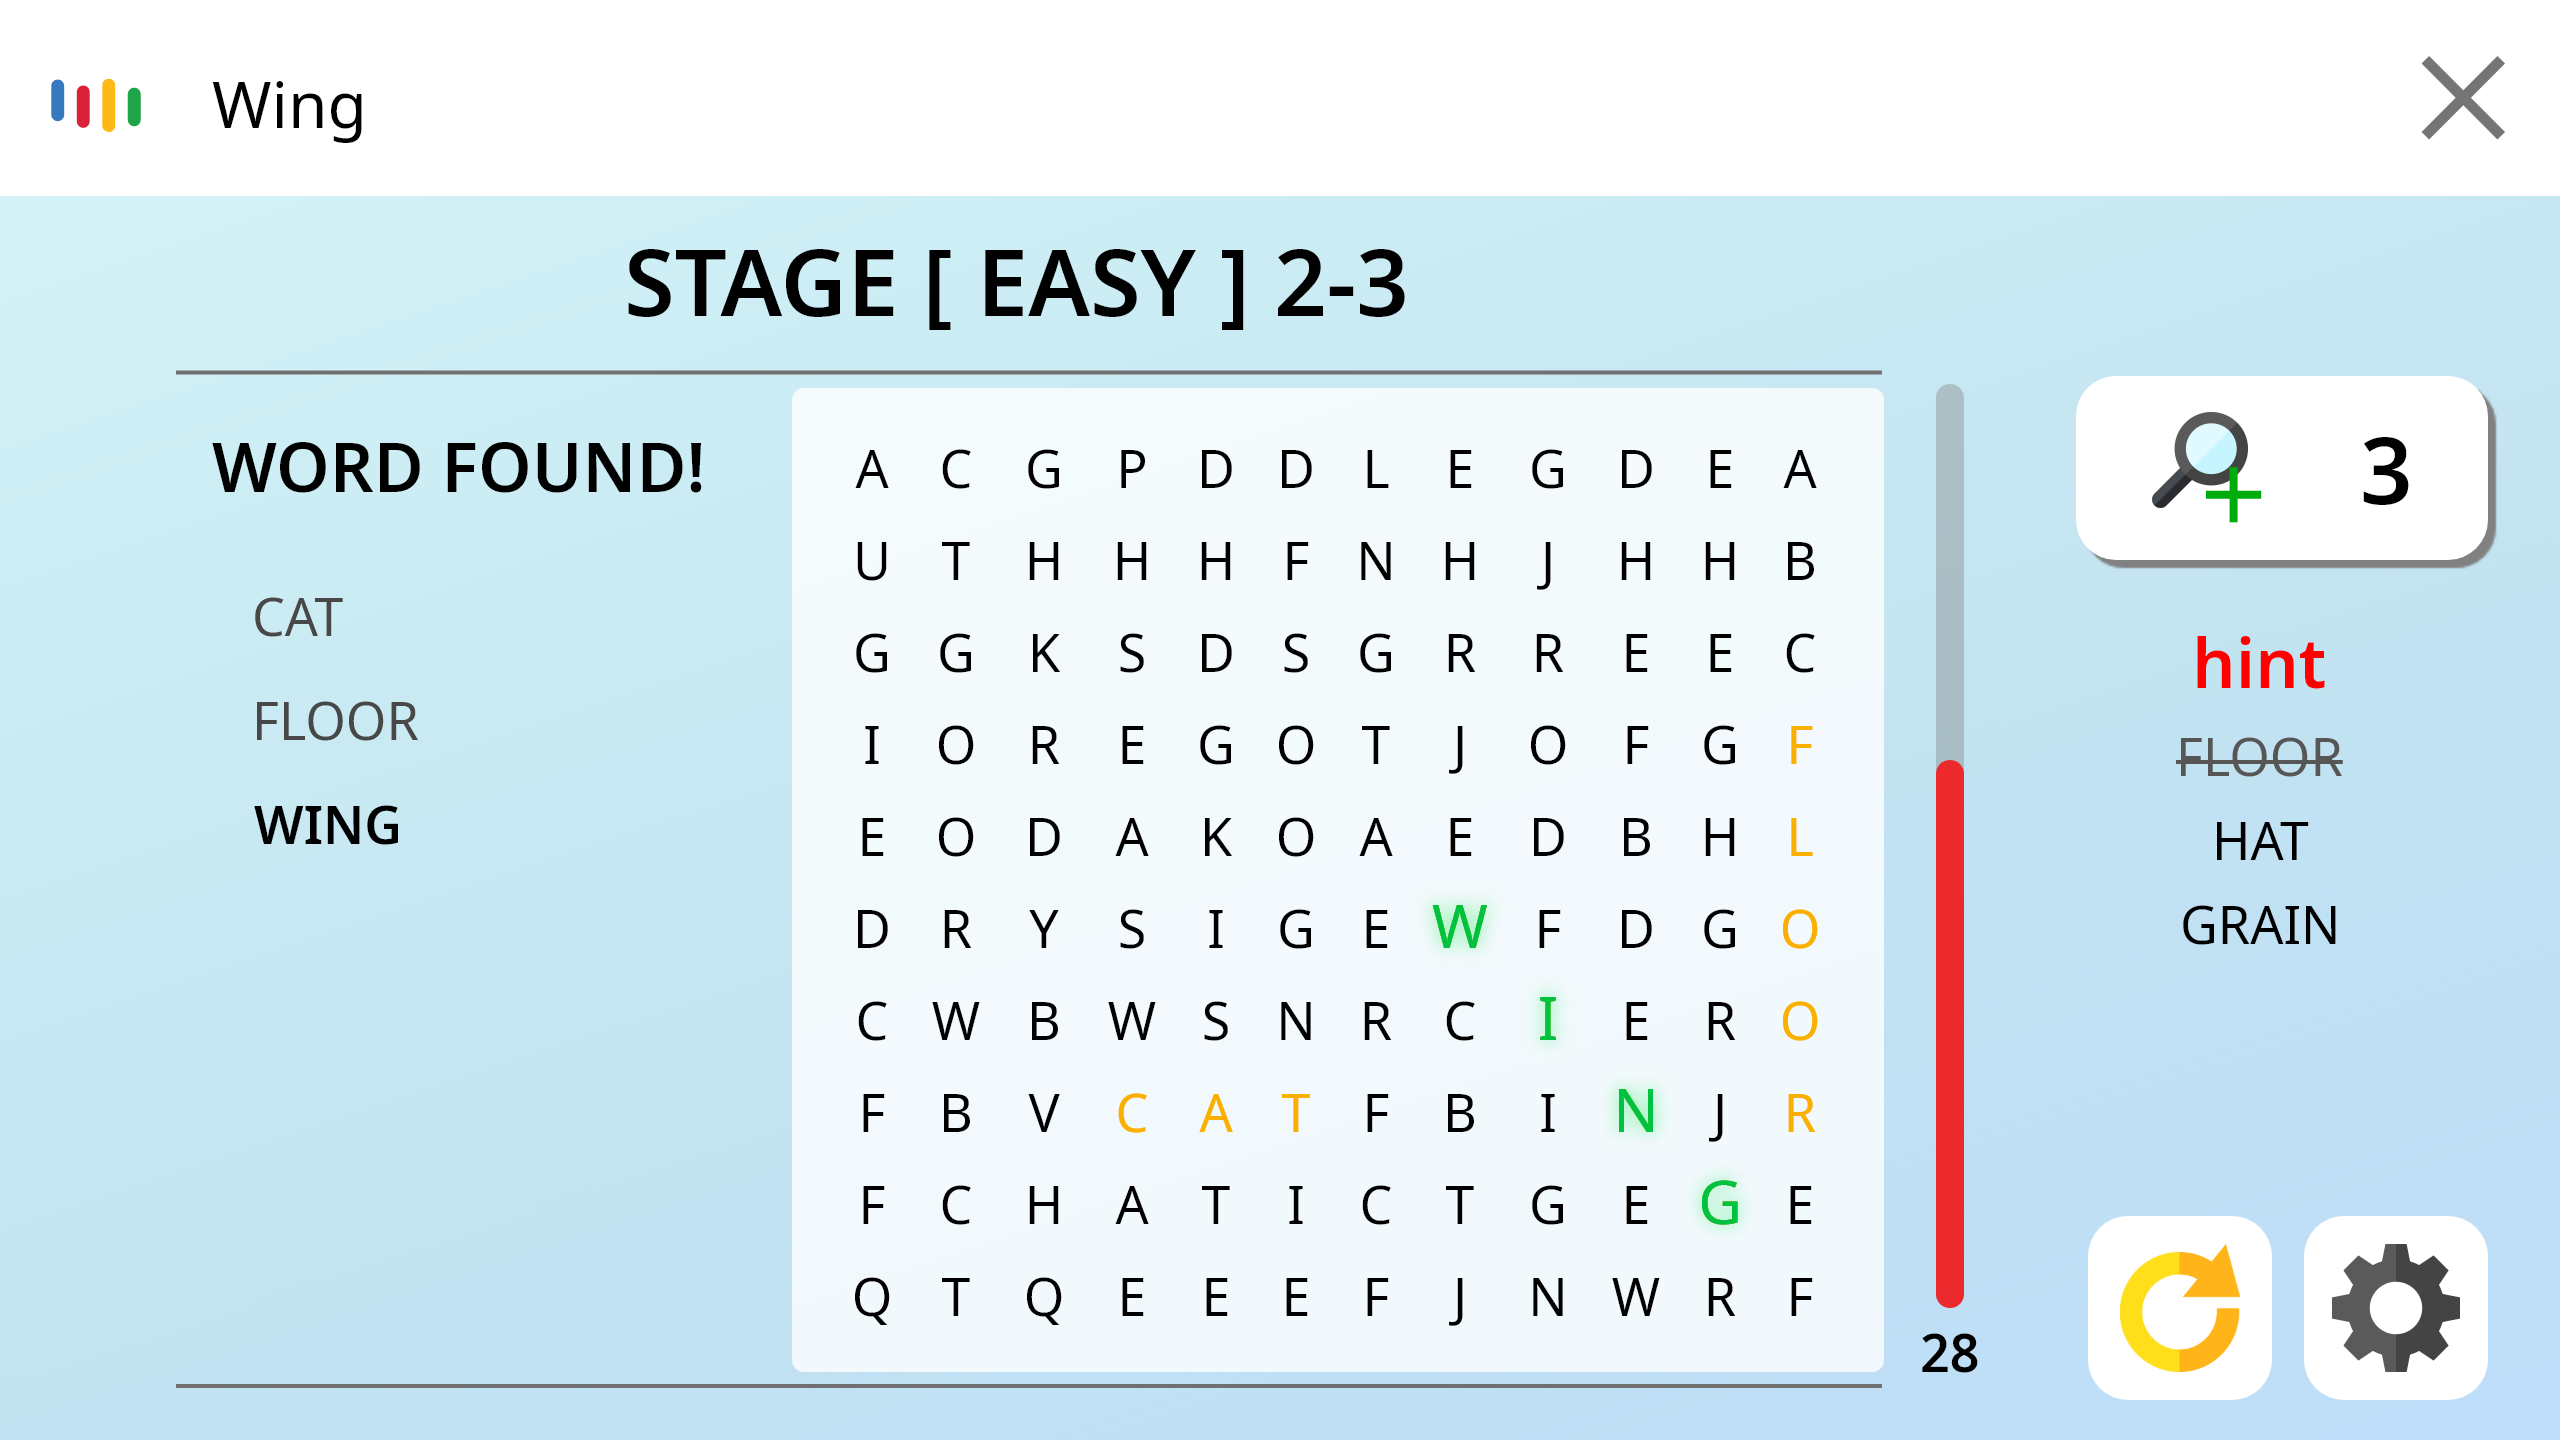
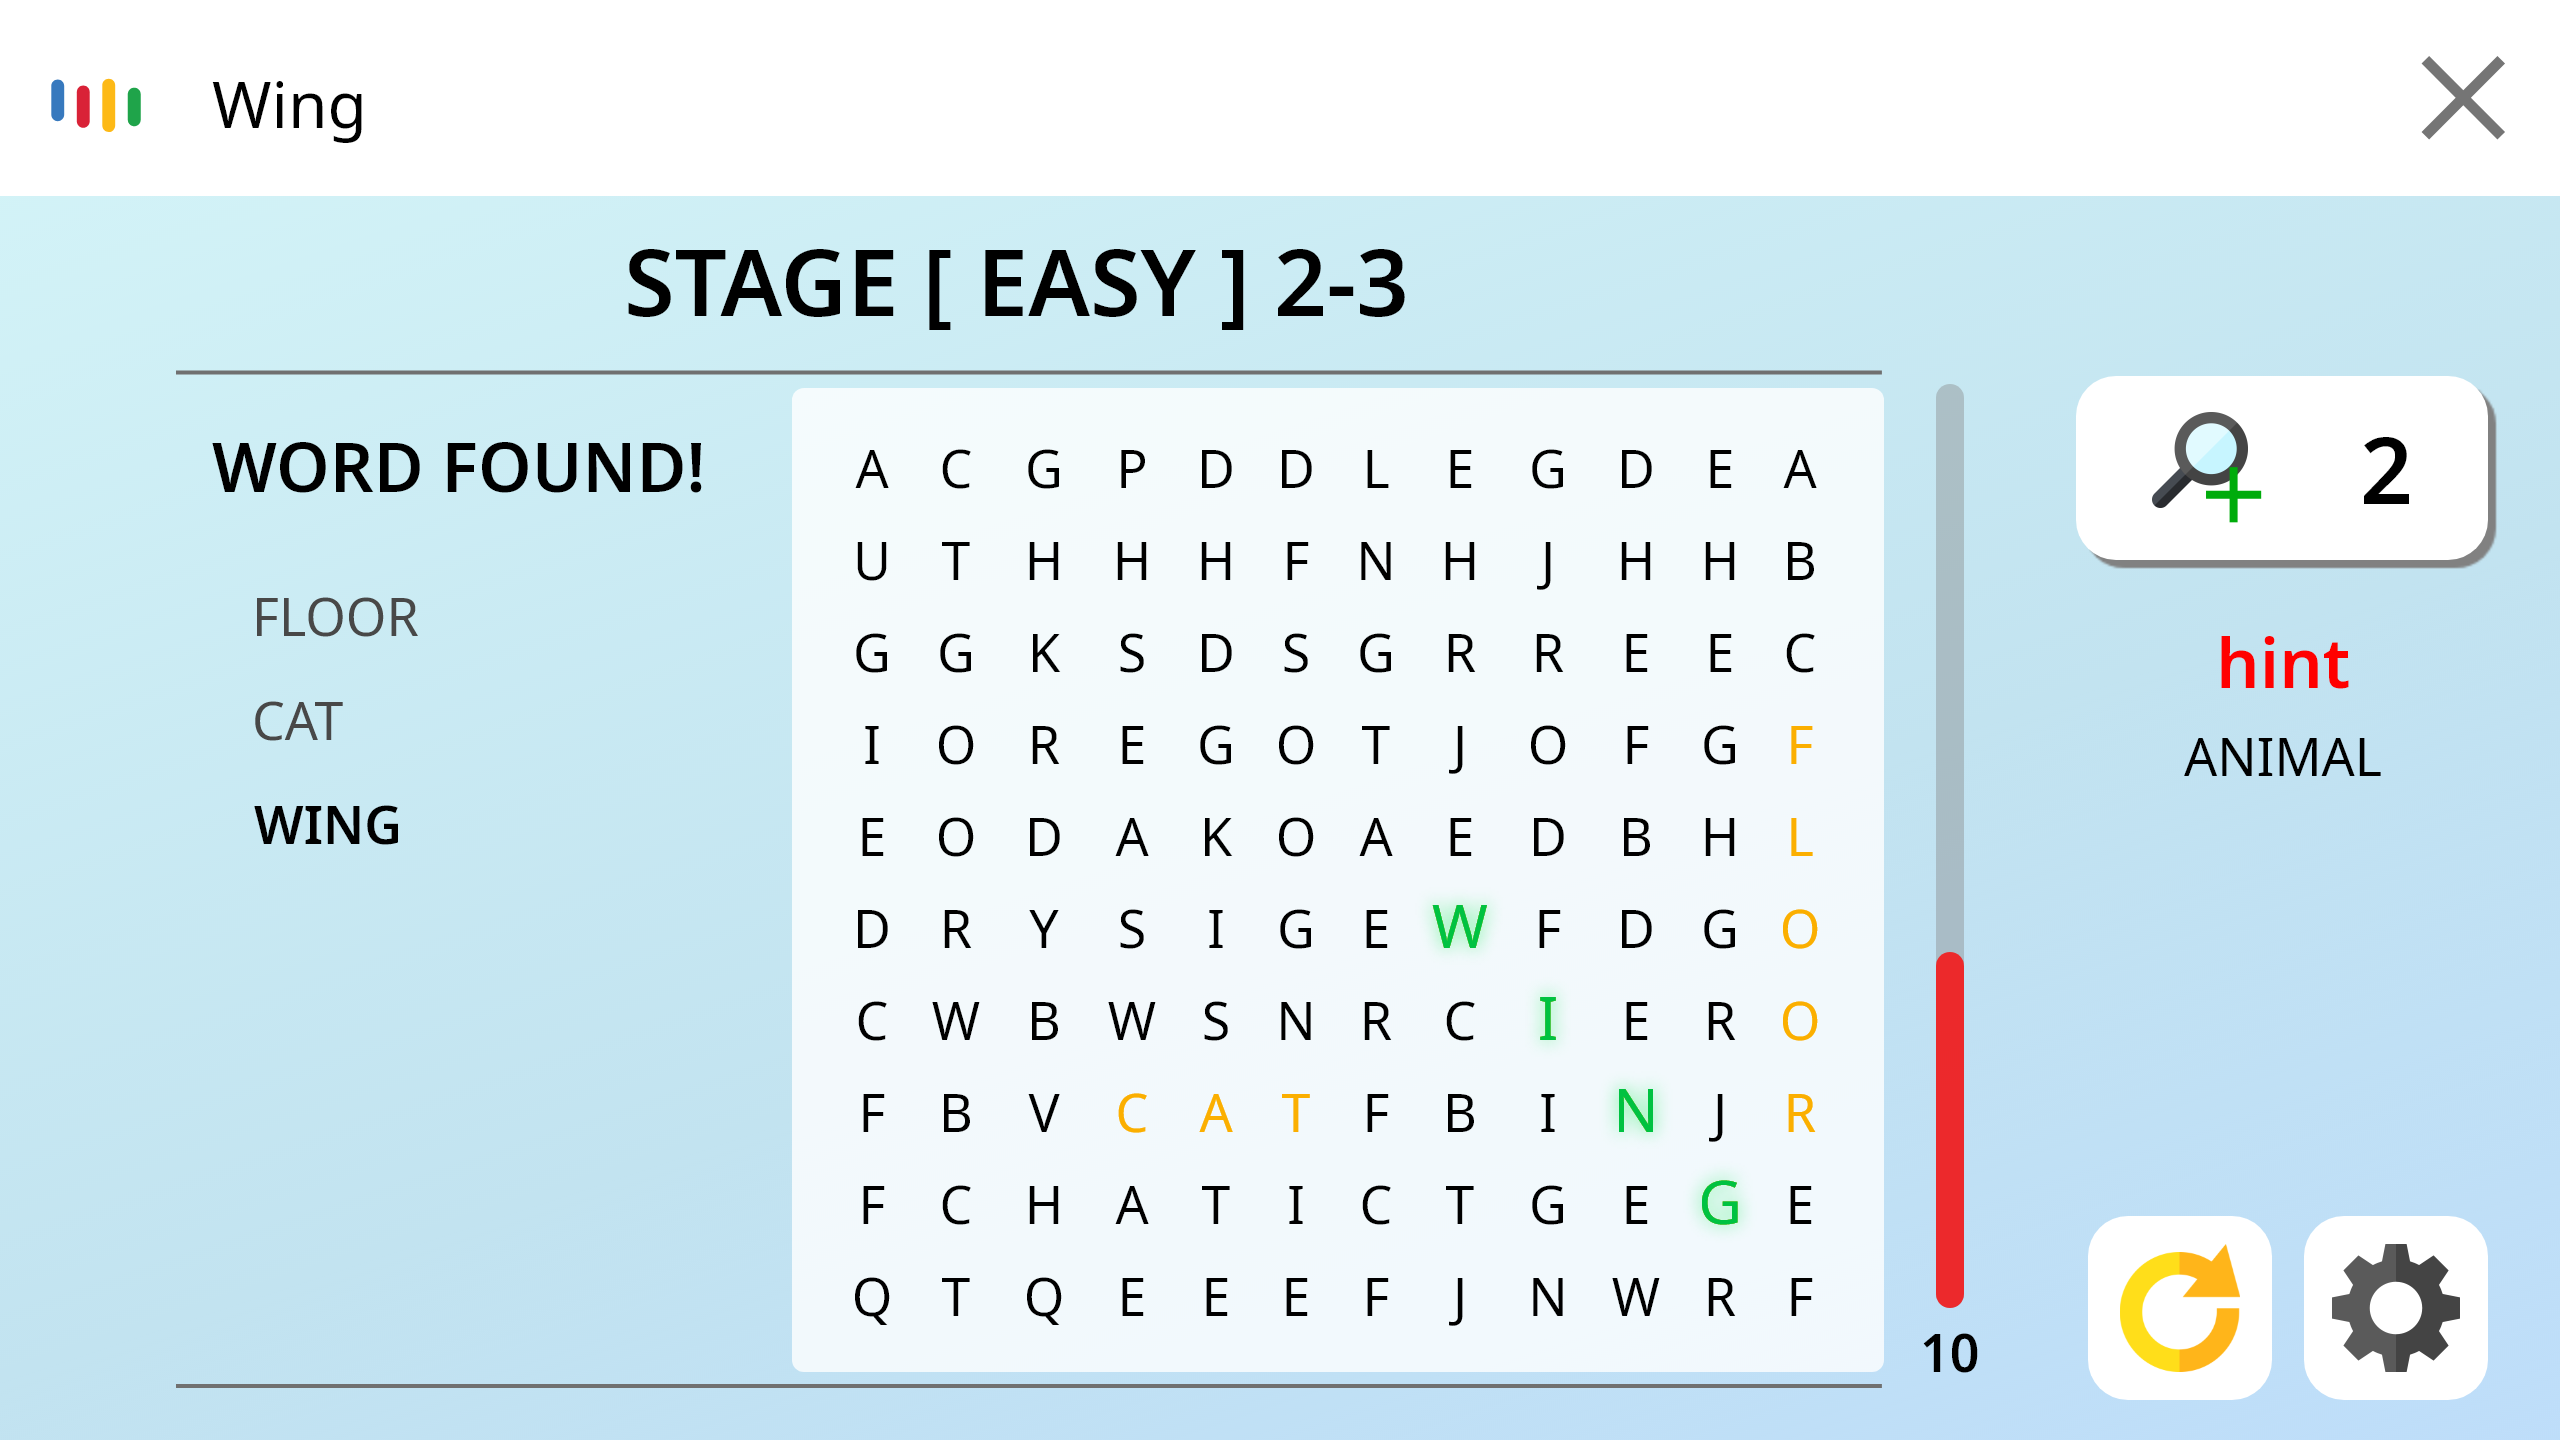
openHint&closeHint 추가

diff --git a/src/main/resources/static/test/js/action.js b/src/main/resources/static/test/js/action.js
@@ -43,15 +43,15 @@ function stageLocked(level) {
  * @param time
  */
 function timer(time) {
-    const timer = document.getElementById("timer");
+    const innertimer = document.getElementById("timer");
     let element = document.createElement("p");
-    timer.appendChild(element);
-    const x = setInterval(function () {
+    innertimer.appendChild(element);
+    const interval = setInterval(function () {
         element.textContent = time;
-        timer.replaceChild(element, element);
+        innertimer.replaceChild(element, element);
         time--;
         if (time < 0) {
-            clearInterval(x);
+            clearInterval(interval);
         }
     }, 1000);
 }
@@ -81,7 +81,6 @@ class Action {
         let hint;
 
         let timerOver;
-
         let cnt = 0;
 
         //코드 간결화 변수
@@ -99,7 +98,6 @@ class Action {
                 welcomeImg.setAttribute("style", "max-width: 100%; height: auto");
                 welcomeImg.src = "https://actions.o2o.kr/devsvr1/image/welcome.png";
                 screen.appendChild(welcomeImg);
-
                 // const welcome = document.createElement("button");
                 // welcome.setAttribute("style", "margin:20px");
                 // welcome.textContent = "PLAY";
@@ -220,7 +218,6 @@ class Action {
 
                 screen.removeChild(screen.childNodes[0]);
                 const inGameImg = document.createElement("img");
-                inGameImg.setAttribute("id", "ingame");
                 inGameImg.setAttribute("style", "max-width: 100%; height: auto");
                 inGameImg.src = "https://actions.o2o.kr/devsvr1/image/ingame0.png";
                 screen.appendChild(inGameImg);
@@ -249,13 +246,14 @@ class Action {
                 // <span id="timer" style="margin: 20px"></span>
                 // <span id="correctOrWrong" style="margin: 20px"></span>`;
 
-                const innerTimer = document.createElement("div");
-                innerTimer.setAttribute("id", "timer");
-                screen.appendChild(innerTimer);
-                timer(timeLimit);
-                timerOver = setTimeout(function () {
-                    window.canvas.sendTextQuery("get fail result");
-                }, timeLimit * 1000);
+                // const innerTimer = document.createElement("div");
+                // innerTimer.setAttribute("id", "timer");
+                // screen.appendChild(innerTimer);
+                // timer(timeLimit);
+                // timerOver = setTimeout(function () {
+                //     window.canvas.sendTextQuery("get fail result");
+                // }, timeLimit * 1000);
+                // document.getElementById("timer").style.display = "none";
             },
             CORRECT: function (data) {
                 console.log("실행 : correct");
@@ -263,9 +261,9 @@ class Action {
                 // if (finish) {
                 //     scene.action.commands.RESULT(data);
                 // }
-
-                const iGimg = document.getElementById("ingame");
                 screen.removeChild(screen.childNodes[0]);
+                const iGimg = document.createElement("img");
+                iGimg.setAttribute("style", "max-width:100%; height: auto");
                 cnt++;
                 if (cnt == 1) {
                     iGimg.src = "https://actions.o2o.kr/devsvr1/image/ingame1.png";
@@ -276,6 +274,7 @@ class Action {
                 } else if (cnt == 3) {
                     iGimg.src = "https://actions.o2o.kr/devsvr1/image/ingame3.png";
                     screen.appendChild(iGimg);
+                    cnt = 0;
                 }
 
                 // totalWord--;
@@ -296,12 +295,22 @@ class Action {
             },
             OPENHINT: function (data) {
                 console.log("실행 : openhint");
-                myHint--;
-                document.getElementById("hint").innerHTML = "HINT " + myHint;
-                hint = data.hint;
+                screen.removeChild(screen.childNodes[0]);
+                const openHintImg = document.createElement("img");
+                openHintImg.setAttribute("style", "max-width: 100%; height: auto");
+                openHintImg.src = "https://actions.o2o.kr/devsvr1/image/openhint.png"
+                screen.appendChild(openHintImg);
+                // myHint--;
+                // document.getElementById("hint").innerHTML = "HINT " + myHint;
+                // hint = data.hint;
             },
-            CLOSEHINT: function(data) {
+            CLOSEHINT: function (data) {
                 console.log("실행: closehint");
+                screen.removeChild(screen.childNodes[0]);
+                const closeHintImg = document.createElement("img");
+                closeHintImg.setAttribute("style", "max-width: 100%; height: auto");
+                closeHintImg.src = "https://actions.o2o.kr/devsvr1/image/closehint.png";
+                screen.appendChild(closeHintImg);
             },
             RESULT: function (data) {
                 console.log("실행 : result");
